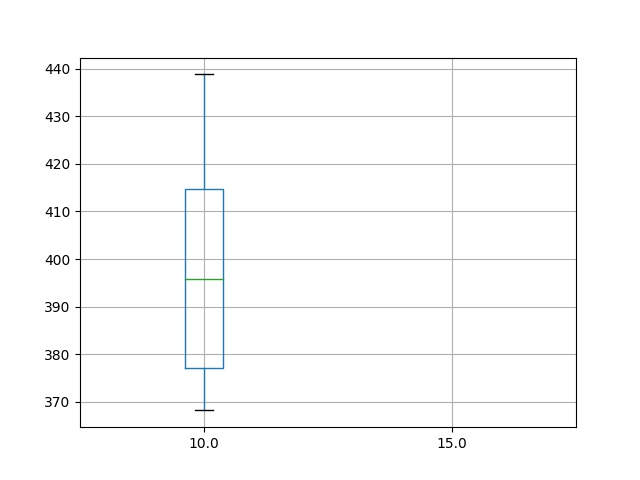
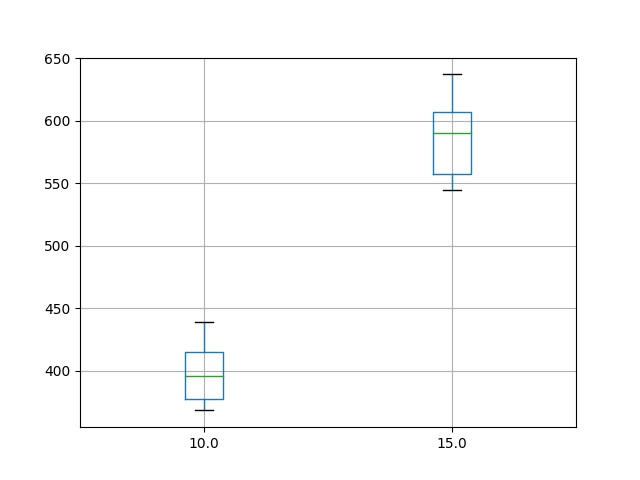
Fix boxplots

diff --git a/compiling_results/results/compile_charts.py b/compiling_results/results/compile_charts.py
@@ -30,7 +30,6 @@ def get_data(exp, exp_result, factor):
 
     data = []
     boxplot_df = pd.DataFrame([])
-    boxplot_df.rename(columns = factor_config)
 
     for fact in factor_config:
         # filter rows by factor config
@@ -38,19 +37,25 @@ def get_data(exp, exp_result, factor):
         # get accuracy/response time
         new_data = new_df[exp_result]
         data.append(new_data)
-        print(fact)
+        # print(fact)
 
         boxplot_df[fact] = new_data
 
-    boxplot_df[factor_config[0]] = data[0]
-    boxplot_df[factor_config[1]] = data[1]
+    daaata = {
+        factor_config[0]: data[0],
+        factor_config[1]: data[1]
+
+    }
+    # boxplot_df[factor_config[0]] =
+    # boxplot_df[factor_config[1]] = data[1]
+
+    boxplot_df = pd.DataFrame(daaata)
+    print(data)
     print(boxplot_df)
 
     myFig = plt.figure()
     bp = boxplot_df.boxplot()
     myFig.savefig(exp+".jpg", format="jpg")
-
-    # get_boxplot(exp, data, factor_config)
 
 
 exp = '0.f'
